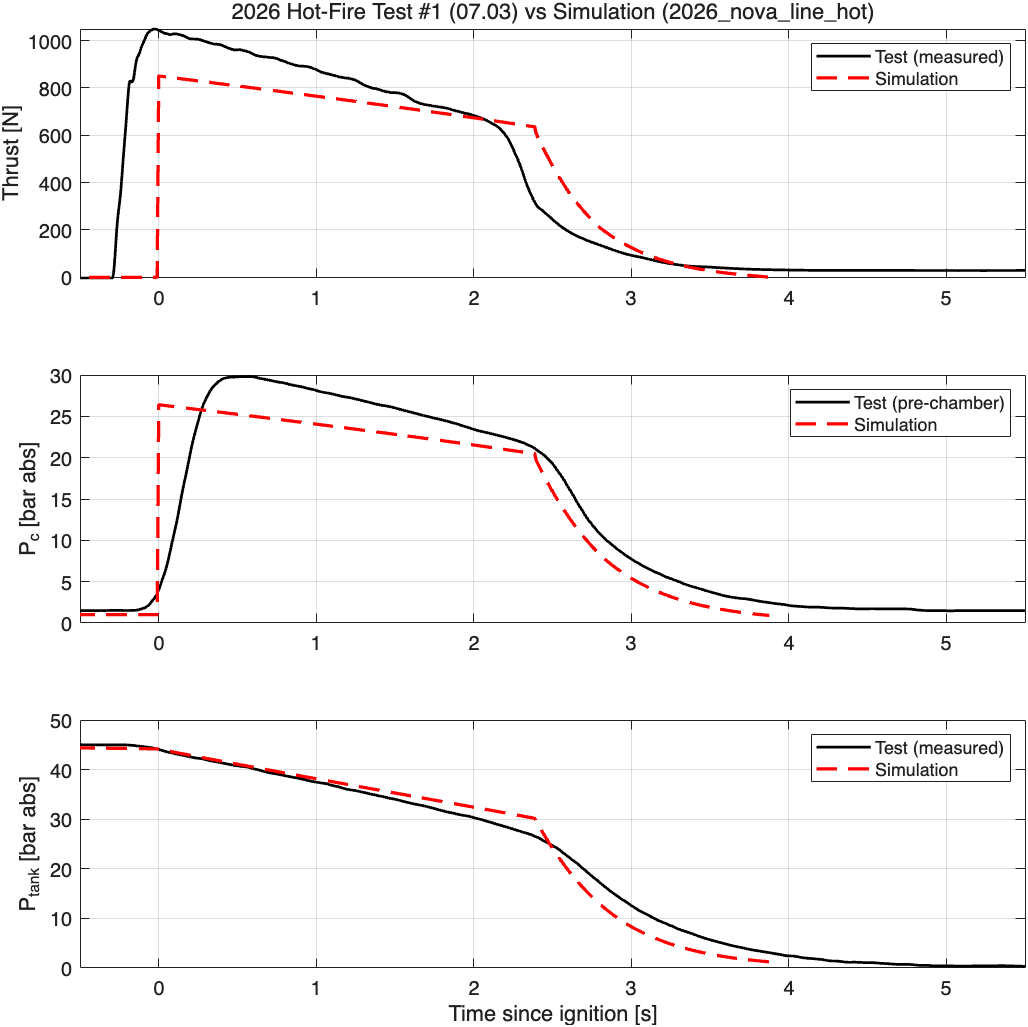
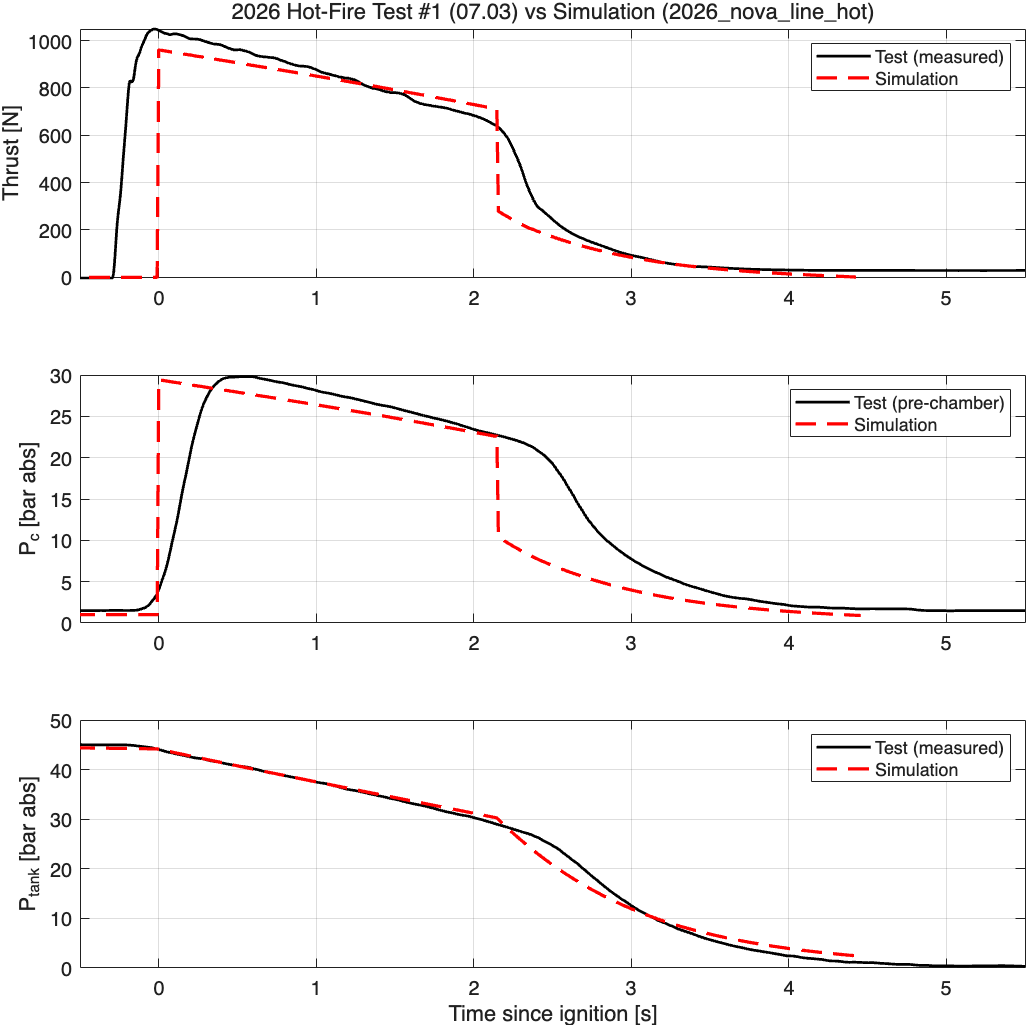
증기상 급기 라인 결합 + 2차 교정 (연소시험 우선, flex 6.35mm)
- Feed_Line: phase 인자 추가 ('vap' = 탱크 h_v 보존 균질 행진) - 증기도
  같은 라인을 지나므로 액상과 동일 구조로 지원
- Inj_NHNE_VapFeed: 급기 라인 유량 이분법 결합 내장 (u.feed.mode=1).
  상류 s를 라인 출구 (P_out, h_v) 지렛대로 재평가해 마찰 엔트로피 생성 반영.
  결합 경로는 포화 테이블 지렛대 전용(핫루프 py 호출 없음), HEM 초크 캡은
  지렛대 플럭스 황금분할, 실기체 n은 스텝당 1회 평가
- System: VapFeed에서 feed 진단값 NaN 처리 제거 (증기 결합값 로깅)
- 증기 라인 압손은 10 bar급으로 지배적 -> 증기 배출이 직결 대비 크게 줄어
  블로다운 꼬리가 시험과 같이 길어짐
- 2차 교정 (flex.d=6.35mm 확정 반영, 연소시험 가중):
  fmult=4, Cd=0.60, fuel a=0.055, eta_c=0.95
  연소: F -0.6%, t_liq -2%, Pc -1.4 bar(-5%), 총임펄스 -5%
  분무 Test1: P_inj RMSE 1.26 bar, mdot bias +19% (연소 우선 절충)
- Compare_2026_Spray: x축 8초 캡 (긴 증기 꼬리에도 핵심 구간 유지)

diff --git a/Components/5. Injector/Inj_NHNE_VapFeed.m b/Components/5. Injector/Inj_NHNE_VapFeed.m
@@ -7,8 +7,17 @@ function [x] = Inj_NHNE_VapFeed(x)
 %     (논문 4.3절의 수치 탐색 방식; SPC 임계비와는 별개의 기준)
 %   선행 조건: InjState_VapFeed가 먼저 호출되어 하류 등엔트로피 상태가
 %   x.inj.*에 준비되어 있어야 함.
+%
+%   급기 라인 결합 (x.feed.mode == 1, CoolProp 물성):
+%   액체 소진 후에도 탱크 포화증기가 같은 라인을 지나므로, 라인 출구 상태
+%   (Feed_Line 증기 행진: h = h_v 보존, 균질 마찰 + 가속 압손)를 상류로 쓰는
+%   유량 이분법으로 결합한다. 상류 s는 (P_out, h_v) 지렛대로 재평가되어 라인
+%   마찰에 의한 엔트로피 생성이 자동 반영된다. 결합 경로의 물성은 포화 테이블
+%   지렛대(핫루프 py 호출 없음), n은 스텝당 탱크 상태에서 1회 평가(라인 압손
+%   수 bar 구간에서 변화 미미).
 
 %% Input
+persistent m_prev_vap % 라인 결합 워밍 스타트 (직전 스텝 유량)
 fluid = x.fluid;
 % P2 = x.comb.P; % 기존 연소실 압력 사용 코드 주석 처리
 P2 = x.comb.Pinj; % 인젝터 후단 압력으로 Pinj 사용
@@ -134,6 +143,56 @@ else
     % alpha2, S_slip, r_choke_HEM은 초기값 NaN 유지
 end
 
+%% Feed line coupling (증기상 라인 결합)
+use_feed = isfield(x, 'feed') && isfield(x.feed, 'mode') && x.feed.mode == 1 ...
+           && ismethod(fluid, 'GetPropsPH');
+P_out_line = x.tank.P; x_out_line = 1; dP_line = 0; % 무유량 기본값
+
+if use_feed && mdot_inj > 0 && deltaP > 0
+    CdA = Cd_inj * A_inj;
+    % 브래킷: 결합 해는 무손실(탱크 직결) 유량 이하 [소량, mdot_직결]
+    m_lo = 1e-5; m_hi = mdot_inj * 1.02;
+    a = m_lo; b = m_hi;
+    if ~isempty(m_prev_vap) && isfinite(m_prev_vap) && m_prev_vap > m_lo
+        aw = max(m_lo, 0.7 * m_prev_vap); bw = min(m_hi, 1.3 * m_prev_vap);
+        if vap_line_resid(x, aw, P2, n_isen, CdA) > 0 && vap_line_resid(x, bw, P2, n_isen, CdA) < 0
+            a = aw; b = bw; % 직전 스텝 주변 워밍 스타트 성공
+        end
+    end
+    ra = vap_line_resid(x, a, P2, n_isen, CdA);
+    rb = vap_line_resid(x, b, P2, n_isen, CdA);
+    if ra > 0 && rb < 0
+        for it = 1:40
+            m_mid = 0.5 * (a + b);
+            if vap_line_resid(x, m_mid, P2, n_isen, CdA) > 0
+                a = m_mid;
+            else
+                b = m_mid;
+            end
+            if (b - a) < 1e-4 * max(b, 1e-6), break; end
+        end
+        m_sol = 0.5 * (a + b);
+        [~, dg] = vap_line_resid(x, m_sol, P2, n_isen, CdA);
+        if dg.ok
+            mdot_inj = m_sol;
+            mdot_SPC = dg.mdot_SPC;
+            mdot_HEM = dg.mdot_HEM;
+            alpha2 = dg.alpha2;
+            S_slip = dg.S_slip;
+            hem_choked = dg.hem_choked;
+            r_choke_HEM = dg.r_choke;
+            pressure_ratio = P2 / dg.P_out;
+            P_out_line = dg.P_out; x_out_line = dg.x_out; dP_line = dg.dP_line;
+            m_prev_vap = m_sol;
+        end
+    elseif ra <= 0
+        % 라인이 극소 유량도 통과 못 시킴 (말기 저압) -> 유량 0
+        mdot_inj = 0; mdot_SPC = 0; mdot_HEM = 0;
+        m_prev_vap = [];
+    end
+    % rb >= 0 (라인 손실이 무시할 수준): 탱크 직결 값 유지
+end
+
 %% Output
 x.inj.n_isen = n_isen;
 x.inj.ratio_Pcr = critical_pressure_ratio; % SPC 임계 압력비 (식 (11))
@@ -148,6 +207,127 @@ x.inj.mdot_HEM = mdot_HEM;
 % Output the total calculated mass flow rate
 x.inj.mdot = mdot_inj;
 
+% 급기 라인 진단값 (결합 시 갱신, 무유량이면 탱크압/건도1/손실0)
+if use_feed
+    x.feed.P_out = P_out_line;
+    x.feed.x_out = x_out_line;
+    x.feed.dP_line = dP_line;
+end
+
+end
+
+function [r, dg] = vap_line_resid(x, m, P2, n_isen, CdA)
+%vap_line_resid  결합 잔차: (라인 출구 상류로 평가한 FML 유량) - (가정 유량)
+%   라인 통과 불가 시 음수 반환 (이분법이 유량을 낮추는 방향).
+dg = struct('ok', false, 'P_out', NaN, 'x_out', NaN, 'dP_line', NaN, ...
+            'mdot_SPC', NaN, 'mdot_HEM', NaN, 'alpha2', NaN, 'S_slip', NaN, ...
+            'hem_choked', false, 'r_choke', NaN);
+fo = Feed_Line(x, m, 'vap');
+if ~fo.ok
+    r = -max(m, 1e-6);
+    return;
+end
+h1 = x.tank.h_v;
+st = N2O_SatTable(fo.P_out);
+if ~st.ok
+    r = -max(m, 1e-6);
+    return;
+end
+% 라인 출구 상류 상태: (P_out, h_v) 지렛대 -> s1 (마찰 엔트로피 생성 반영)
+Xc = min(max((h1 - st.hl) / max(st.hv - st.hl, eps), 0), 1);
+s1c = st.sl + Xc * (st.sv - st.sl);
+[mdot_c, dgi] = fml_vap_lever(fo.P_out, fo.rho_out, h1, s1c, P2, n_isen, CdA);
+r = mdot_c - m;
+dg = dgi;
+dg.ok = true;
+dg.P_out = fo.P_out; dg.x_out = fo.x_out; dg.dP_line = fo.dP_line;
+end
+
+function [mdot, dg] = fml_vap_lever(P1, rho1, h1, s1, P2, n, CdA)
+%fml_vap_lever  FML 증기상 유량 (식 (23)) - 포화 테이블 지렛대 전용 고속판
+%   SPC: 실기체 n (스텝당 1회 평가값 재사용). HEM: 지렛대 등엔트로피 플럭스의
+%   최대점(초크점) 캡 (황금분할, 순수 MATLAB). 과열 영역은 X<=1 클램프로
+%   포화증기 근사 (증기상 알짜 기여는 alpha2~1로 SPC 지배적).
+dg = struct('ok', true, 'P_out', NaN, 'x_out', NaN, 'dP_line', NaN, ...
+            'mdot_SPC', 0, 'mdot_HEM', 0, 'alpha2', 1, 'S_slip', NaN, ...
+            'hem_choked', false, 'r_choke', NaN);
+rr = min(max(P2 / P1, 1e-6), 1);
+
+% --- SPC (식 (10)/(12)) ---
+if isfinite(n) && n > 1
+    rcr = (2 / (n + 1))^(n / (n - 1));
+    if rr <= rcr
+        term = n * rho1 * P1 * (2 / (n + 1))^((n + 1) / (n - 1));
+    else
+        term = 2 * rho1 * P1 * (n / (n - 1)) * (rr^(2 / n) - rr^((n + 1) / n));
+    end
+else
+    term = 2 * rho1 * max(P1 - P2, 0); % SPI 폴백
+end
+mdot_SPC = CdA * sqrt(max(term, 0));
+
+% --- alpha2: 하류(P2) 등엔트로피 지렛대 상태 + Zivi 슬립 ---
+alpha2 = 1; S_slip = NaN;
+s2t = N2O_SatTable(P2);
+if s2t.ok
+    X2 = (s1 - s2t.sl) / max(s2t.sv - s2t.sl, eps);
+    if X2 <= 0
+        alpha2 = 0;
+    elseif X2 < 1
+        S_slip = (s2t.rhol / s2t.rhov)^(1/3);
+        alpha2 = 1 / (1 + ((1 - X2) / X2) * S_slip * (s2t.rhov / s2t.rhol));
+    end
+end
+
+% --- HEM: 지렛대 플럭스 + 초크 캡 (황금분할) ---
+mdot_HEM = 0; hem_choked = false; r_choke = NaN;
+if alpha2 < 1 - 1e-9 % 전량 증기(alpha2=1)면 HEM 기여 0 -> 탐색 생략
+    phi = (sqrt(5) - 1) / 2;
+    a = 0.30; b = 0.995;
+    x1 = b - phi * (b - a); x2 = a + phi * (b - a);
+    f1 = lever_flux(x1 * P1, s1, h1); f2 = lever_flux(x2 * P1, s1, h1);
+    for it = 1:12
+        if f1 >= f2
+            b = x2; x2 = x1; f2 = f1; x1 = b - phi * (b - a);
+            f1 = lever_flux(x1 * P1, s1, h1);
+        else
+            a = x1; x1 = x2; f1 = f2; x2 = a + phi * (b - a);
+            f2 = lever_flux(x2 * P1, s1, h1);
+        end
+    end
+    if f1 >= f2, r_choke = x1; else, r_choke = x2; end
+    if rr < r_choke
+        hem_choked = true;
+        G = lever_flux(r_choke * P1, s1, h1); % 초크점 캡
+    else
+        G = lever_flux(P2, s1, h1);
+    end
+    if isfinite(G) && G > 0
+        mdot_HEM = CdA * G;
+    end
+end
+
+mdot = alpha2 * mdot_SPC + (1 - alpha2) * mdot_HEM;
+dg.mdot_SPC = mdot_SPC; dg.mdot_HEM = mdot_HEM;
+dg.alpha2 = alpha2; dg.S_slip = S_slip;
+dg.hem_choked = hem_choked; dg.r_choke = r_choke;
+end
+
+function G = lever_flux(Pe, s1, h1)
+%lever_flux  등엔트로피(s=s1) 지렛대 상태의 HEM 질량 플럭스 G = rho2*sqrt(2*(h1-h2))
+st = N2O_SatTable(Pe);
+if ~st.ok
+    G = -Inf;
+    return;
+end
+X = min(max((s1 - st.sl) / max(st.sv - st.sl, eps), 0), 1);
+h2 = st.hl + X * (st.hv - st.hl);
+rho2 = 1 / (X / st.rhov + (1 - X) / st.rhol);
+if h1 > h2 && isfinite(rho2)
+    G = rho2 * sqrt(2 * (h1 - h2));
+else
+    G = -Inf;
+end
 end
 
 function [r_best, state_best] = FindHEMChokeRatioVap(fluid, P1, s1, h1, guessT, guessRho)

diff --git a/Components/4. Pipe/Feed_Line.m b/Components/4. Pipe/Feed_Line.m
@@ -1,5 +1,5 @@
-function [out] = Feed_Line(x, mdot)
-%Feed_Line  급기 라인 (P,h) 균질류 행진 모델 - 액상 유출 전용
+function [out] = Feed_Line(x, mdot, phase)
+%Feed_Line  급기 라인 (P,h) 균질류 행진 모델 - 액상/증기상 유출
 %   경로: 탱크 출구(입구손실) -> 플렉시블(주름 마찰 배수, 벤드) -> 파이프1
 %         -> 볼밸브(2상 무회복 K) -> 파이프2(인젝터 전방)
 %   - 균질류 + Dukler 2상 점도 + Nikuradse 마찰: Tada et al. 2024가 자가가압 N2O
@@ -11,6 +11,9 @@ function [out] = Feed_Line(x, mdot)
 %   요구 사항: CoolProp 물성 모델 (u.tank.prop_model = "CoolProp")
 %
 %   입력:  x (시뮬 상태), mdot [kg/s] (가정 유량 - 결합 루프에서 반복 호출됨)
+%          phase: 'liq'(기본, h = 탱크 액상 h) 또는 'vap'(h = 탱크 증기 h)
+%          증기상: 등엔탈피 스로틀링으로 출구가 약과열 증기가 될 수 있으나,
+%          지렛대 클램프(X<=1)로 포화증기 물성으로 근사 (밀도 오차 수 % 이내)
 %   반환:  out.ok      계산 성공 여부 (false: 해당 유량이 라인을 통과 불가)
 %          out.P_out   라인 출구(인젝터 전방) 압력 [Pa]
 %          out.h_out   라인 출구 비엔탈피 [J/kg] (= 탱크 액상 h, 보존)
@@ -18,9 +21,16 @@ function [out] = Feed_Line(x, mdot)
 %          out.rho_out 라인 출구 혼합 밀도 [kg/m^3]
 %          out.dP_line 라인 총 압력손실 [Pa]
 
+if nargin < 3
+    phase = 'liq';
+end
 fluid = x.fluid;
 fd = x.feed;
-h1 = x.tank.h_l; % 액상 유출 (단열 라인 -> h 보존)
+if strcmpi(phase, 'vap')
+    h1 = x.tank.h_v; % 증기상 유출 (단열 라인 -> h 보존)
+else
+    h1 = x.tank.h_l; % 액상 유출 (단열 라인 -> h 보존)
+end
 P0 = x.tank.P;
 
 out = struct('ok', false, 'P_out', NaN, 'h_out', h1, 'x_out', NaN, ...

diff --git a/System/System.m b/System/System.m
@@ -515,7 +515,7 @@ function x = set_unused_outputs(x, phase)
              if x.vent.mode == 0
                  fields_to_nan.vent = {'ratio_Pcr', 'ratio_P'};
              end
-             fields_to_nan.feed = {'P_out', 'x_out', 'dP_line'}; % 급기 라인은 액상 유출 전용 (v1)
+             % (급기 라인은 증기상도 지원 - Inj_NHNE_VapFeed가 x.feed.*를 매 스텝 갱신)
              % Add other VapFeed specific NaNs if needed
         % --- Add SprayTest Case ---
         case 'SprayTest' % Set fuel, comb (except P), and nozzle outputs to NaN/0

diff --git a/TMS_Data/Compare_2026_Spray.m b/TMS_Data/Compare_2026_Spray.m
@@ -43,7 +43,7 @@ tr_s = y.time - t_run;
 %% 겹침 플롯
 fig = figure('Name', sprintf('2026 Spray Test %d vs Simulation', test_id), ...
              'Position', [100 100 900 850], 'Color', 'w');
-tl = [-0.5, min(max(tr_t), max(tr_s)) + 0.3];
+tl = [-0.5, min([max(tr_t), max(tr_s), 8]) + 0.3]; % 8초 캡 (증기 꼬리가 길어도 핵심 구간 유지)
 
 subplot(3, 1, 1);
 plot(tr_t, mdot_t, 'k-', 'LineWidth', 1.8); hold on;

diff --git a/Components/4. Pipe/Feed_Line.md b/Components/4. Pipe/Feed_Line.md
@@ -14,17 +14,18 @@ Author: SRS 33기 박호진
 - 라인은 단열로 가정 → **비엔탈피 보존** (마찰 소산은 내부에너지로 회귀). 상태는 (P, h) 플래시로 추적.
 - **검증**: 2026 수류시험 2회 — 실측 mdot·P_tank 입력 시 P_inj 예측 교차 RMSE ~2.5 bar (전체 낙차 12~14 bar 대비).
 - **요구 사항**: CoolProp 물성 모델(`GetPropsPH`). 인하우스 EOS 선택 시 에러 발생.
-- 액상 유출(LiqFeed) 전용 (v1). 증기 유출 구간은 직결로 동작.
-- 호출 방식: `Inj_HEMc_LiqFeed.m`의 유량 결합 루프에서 가정 유량으로 반복 호출됨 (상태 구조체 `x`를 변경하지 않고 결과 구조체 `out`만 반환).
+- **액상/증기상 모두 지원** (v2): 세 번째 인자 `phase`('liq' 기본 / 'vap')로 라인 입구 엔탈피를 탱크 액상(h_l) 또는 증기상(h_v)으로 선택. 증기상은 등엔탈피 스로틀링으로 출구가 약과열 증기가 될 수 있으나, 지렛대 클램프(X ≤ 1)로 포화증기 물성으로 근사합니다 (밀도 오차 수 % 이내; 증기 유동은 속도가 커서 라인 압손이 수 bar~10 bar 이상으로 지배적).
+- 호출 방식: `Inj_HEMc_LiqFeed.m`(액상) / `Inj_NHNE_VapFeed.m`(증기상)의 유량 결합 루프에서 가정 유량으로 반복 호출됨 (상태 구조체 `x`를 변경하지 않고 결과 구조체 `out`만 반환).
 
 # Input
 
 | 명칭            | 기호               | 입력 변수          | 비고                          |
 | ------------- | ---------------- | -------------- | --------------------------- |
-| 시뮬 상태        | —                | x              | 탱크 상태(P, h_l)와 x.feed 설정 사용 |
+| 시뮬 상태        | —                | x              | 탱크 상태(P, h)와 x.feed 설정 사용  |
 | 가정 질량 유량     | $\dot m$          | mdot [kg/s]    | 결합 루프의 반복 변수                |
+| 유출 상          | —                | phase          | 'liq'(기본) / 'vap'            |
 | 탱크 압력        | $P_0$            | x.tank.P       | 라인 입구 압력                    |
-| 탱크 액상 엔탈피    | $h_1$            | x.tank.h_l     | 라인 전체에서 보존                  |
+| 라인 입구 엔탈피    | $h_1$            | x.tank.h_l 또는 h_v | 라인 전체에서 보존 (phase에 따름)  |
 | 입구손실 계수      | $K_{ent}$        | x.feed.K_ent   | 기본 0.5                      |
 | 플렉시블 내경/길이/마찰배수/벤드 | — | x.feed.flex.D/L/fmult/K_bend | 주름관이면 fmult 4~10 |
 | 직관 내경/길이     | —                | x.feed.pipe.D/L1/L2 | 3/8" OD 튜브               |
@@ -59,12 +60,12 @@ $$
 | ----------- | ------------ | ------------------------------- |
 | 계산 성공 여부    | out.ok       | false: 해당 유량이 라인 통과 불가          |
 | 라인 출구 압력    | out.P_out    | 인젝터 전방 압력 [Pa] (파이프2 끝)         |
-| 라인 출구 엔탈피   | out.h_out    | = x.tank.h_l (보존)               |
+| 라인 출구 엔탈피   | out.h_out    | = 라인 입구 엔탈피 (보존)            |
 | 라인 출구 건도    | out.x_out    | 라인 플래싱 결과 (인젝터 입구 건도)           |
 | 라인 출구 혼합 밀도 | out.rho_out  | [kg/m^3]                        |
 | 라인 총 압력손실   | out.dP_line  | P_tank − P_out [Pa]             |
 
-기록: 수렴된 값이 `Inj_HEMc_LiqFeed`에 의해 `x.feed.P_out / x_out / dP_line`으로 저장되어 `y.feed.*`에 로깅됩니다.
+기록: 수렴된 값이 `Inj_HEMc_LiqFeed`(액상) / `Inj_NHNE_VapFeed`(증기상)에 의해 `x.feed.P_out / x_out / dP_line`으로 저장되어 `y.feed.*`에 로깅됩니다.
 
 # 전체 코드
 전체 구현은 [Feed_Line.m](Feed_Line.m) 참조. 내부 구성:

diff --git a/Components/5. Injector/Inj_NHNE_VapFeed.md b/Components/5. Injector/Inj_NHNE_VapFeed.md
@@ -15,7 +15,13 @@ Author: SRS 33기 박호진
 - 기존 `Inj_ICF_VapFeed.m`(등엔트로피 초크 유동, 이상기체 $\gamma$ 사용)과의 관계: FML의 SPC 항은 ICF와 같은 형태이나 비열비 $\gamma$ 대신 **실기체 등엔트로피 지수 $n$**을 사용하며, 여기에 HEM 기여와 보이드율 가중이 추가된 상위 모델입니다.
 - **선행 조건**: `InjState_VapFeed.m`이 먼저 호출되어 하류 등엔트로피 상태(`x.inj.rho`, `x.inj.h`, `x.inj.X`, `x.inj.rho_l`, `x.inj.rho_v`)가 계산되어 있어야 합니다. (`Save_Input_Config.m`의 `u.inj.model_VapFeed`에 **"NHNE"** 키워드를 포함해 지정하면 `System/VapFeed.m`의 모델 분기에서 호출됨)
 - 인젝터를 통한 열전달은 고려되지 않았다.
-- 인젝터 입구가 탱크 출구에 바로 연결되어있다는 조건을 적용하였다. (배관 라인 무시)
+- 인젝터 입구 상류 조건: 기본은 탱크 직결(배관 라인 무시)이나, **급기 라인 결합 모드**(`u.feed.mode = 1`, CoolProp 물성)에서는 라인 출구 상태를 상류로 사용한다 (아래 참조).
+
+## 급기 라인 결합 (u.feed.mode = 1)
+- 액체 소진 후에도 탱크 포화증기는 같은 급기 라인을 지나므로, `Feed_Line(x, mdot, 'vap')`(h = h_v 보존 균질 행진)과 **유량 이분법**으로 결합합니다 — `Inj_HEMc_LiqFeed`의 액상 결합과 동일한 구조.
+- 상류 엔트로피는 라인 출구 (P_out, h_v)의 포화 지렛대로 재평가되어 **라인 마찰의 엔트로피 생성이 자동 반영**됩니다. 증기 유동은 속도가 커서 라인 압손이 액상보다 훨씬 크며(수~10 bar 이상), 그만큼 증기 배출 유량이 직결 대비 크게 줄어 꼬리(tail)가 길어집니다.
+- 결합 경로의 물성은 `N2O_SatTable` 지렛대 전용(핫루프 py 호출 없음), HEM 초크 캡도 지렛대 플럭스의 황금분할 탐색으로 처리합니다. 실기체 등엔트로피 지수 $n$은 스텝당 탱크 상태에서 1회 평가한 값을 재사용합니다 (라인 압손 구간에서 변화 미미). 과열 영역은 X ≤ 1 클램프로 포화증기 근사 (증기상은 $\alpha_2 \approx 1$이라 SPC 지배적 — 근사 영향 미미).
+- 무손실(탱크 직결) 유량을 이분법 상한으로 사용하며, 브래킷 실패(라인 손실이 무시할 수준) 시 직결 값을 유지합니다. 수렴 결과는 `x.feed.P_out / x_out / dP_line`으로 저장되어 `y.feed.*`에 로깅됩니다.
 # Input
 
 | 명칭            | 기호               | 입력 변수         | 비고                                       |